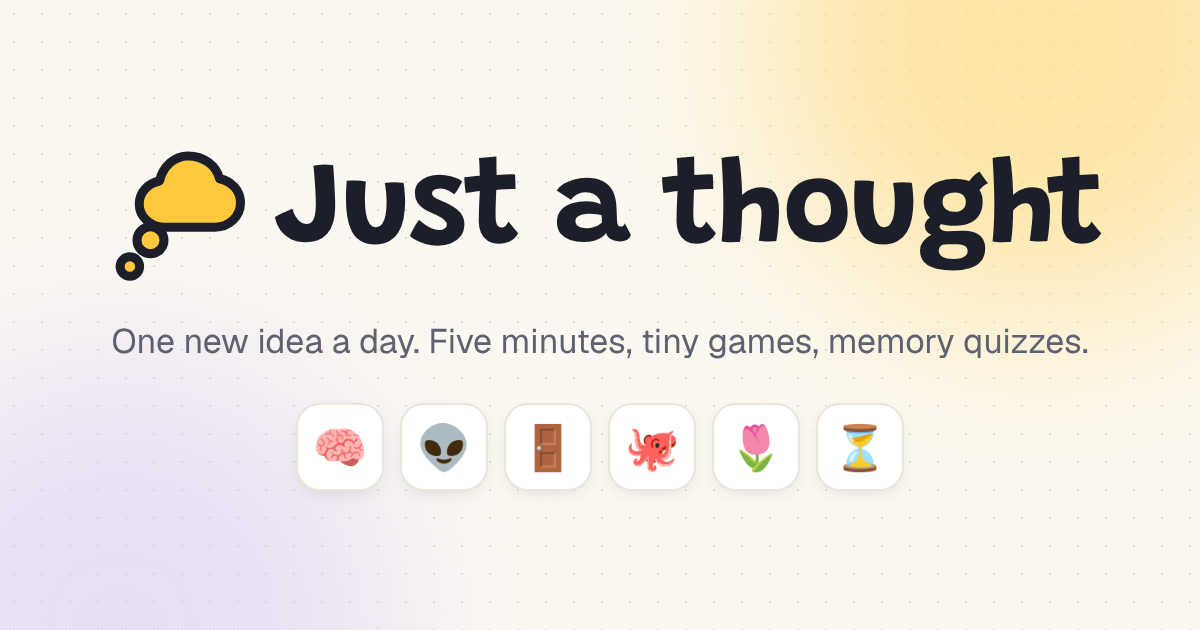
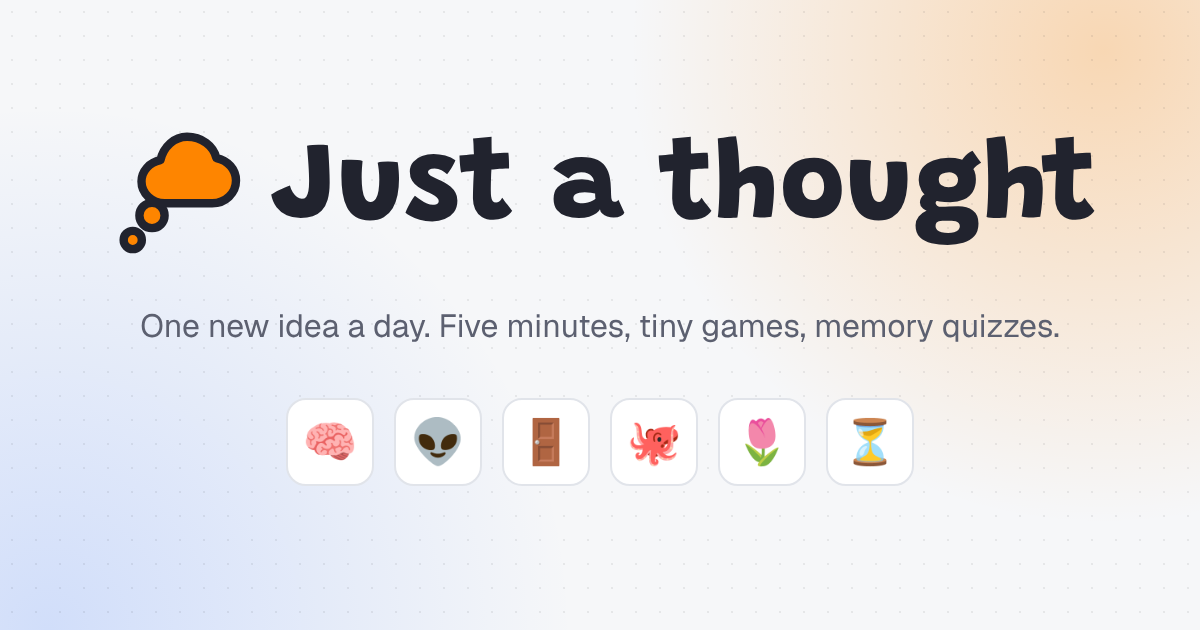
New palette: charcoal, royal blue, tangerine accent
Light and dark themes, logo, icons, share images and emails.

Claude-Session: https://claude.ai/code/session_017sHE44ootYx3rGxQHmYWuA

diff --git a/src/app/globals.css b/src/app/globals.css
@@ -39,51 +39,52 @@
 :root {
   color-scheme: light;
   --radius: 0.875rem;
-  --background: oklch(0.985 0.008 85);
-  --foreground: oklch(0.22 0.02 265);
-  --card: oklch(1 0 0);
-  --card-foreground: oklch(0.22 0.02 265);
-  --popover: oklch(1 0 0);
-  --popover-foreground: oklch(0.22 0.02 265);
-  --primary: oklch(0.22 0.02 265);
-  --primary-foreground: oklch(0.985 0.008 85);
-  --secondary: oklch(0.955 0.012 85);
-  --secondary-foreground: oklch(0.22 0.02 265);
-  --muted: oklch(0.955 0.012 85);
-  --muted-foreground: oklch(0.5 0.02 265);
-  --accent: oklch(0.94 0.015 85);
-  --accent-foreground: oklch(0.22 0.02 265);
+  /* Brand: charcoal #21232E, royal blue #105BFF, tangerine #FE8500 as the accent. */
+  --background: #f6f7f9;
+  --foreground: #21232e;
+  --card: #ffffff;
+  --card-foreground: #21232e;
+  --popover: #ffffff;
+  --popover-foreground: #21232e;
+  --primary: #105bff;
+  --primary-foreground: #ffffff;
+  --secondary: #eceef3;
+  --secondary-foreground: #21232e;
+  --muted: #eceef3;
+  --muted-foreground: #5c6070;
+  --accent: #e7eefe;
+  --accent-foreground: #21232e;
   --destructive: oklch(0.6 0.21 25);
   --success: oklch(0.64 0.16 152);
-  --border: oklch(0.9 0.012 85);
-  --input: oklch(0.88 0.012 85);
-  --ring: oklch(0.6 0.03 265);
-  /* The one call-to-action color: white text on it must stay readable. */
-  --cta: #c8412a;
-  --cta-foreground: #ffffff;
+  --border: #e1e4ea;
+  --input: #d7dbe3;
+  --ring: #105bff;
+  /* The one call-to-action color. White fails contrast on tangerine, so the text is charcoal. */
+  --cta: #fe8500;
+  --cta-foreground: #21232e;
 }
 
 .dark {
   color-scheme: dark;
-  --background: oklch(0.17 0.015 265);
-  --foreground: oklch(0.96 0.008 85);
-  --card: oklch(0.21 0.015 265);
-  --card-foreground: oklch(0.96 0.008 85);
-  --popover: oklch(0.21 0.015 265);
-  --popover-foreground: oklch(0.96 0.008 85);
-  --primary: oklch(0.96 0.008 85);
-  --primary-foreground: oklch(0.17 0.015 265);
-  --secondary: oklch(0.26 0.015 265);
-  --secondary-foreground: oklch(0.96 0.008 85);
-  --muted: oklch(0.26 0.015 265);
-  --muted-foreground: oklch(0.7 0.02 265);
-  --accent: oklch(0.28 0.015 265);
-  --accent-foreground: oklch(0.96 0.008 85);
+  --background: #21232e;
+  --foreground: #f3f4f7;
+  --card: #2a2d3a;
+  --card-foreground: #f3f4f7;
+  --popover: #2a2d3a;
+  --popover-foreground: #f3f4f7;
+  --primary: #105bff;
+  --primary-foreground: #ffffff;
+  --secondary: #343746;
+  --secondary-foreground: #f3f4f7;
+  --muted: #343746;
+  --muted-foreground: #a4a8b8;
+  --accent: #343746;
+  --accent-foreground: #f3f4f7;
   --destructive: oklch(0.7 0.19 22);
   --success: oklch(0.72 0.16 152);
-  --border: oklch(1 0 0 / 10%);
-  --input: oklch(1 0 0 / 15%);
-  --ring: oklch(0.85 0.02 265);
+  --border: rgb(255 255 255 / 10%);
+  --input: rgb(255 255 255 / 15%);
+  --ring: #5b8cff;
 }
 
 @layer base {

diff --git a/src/lib/email.ts b/src/lib/email.ts
@@ -65,11 +65,11 @@ export async function sendReminder(email: string, title: string, emoji: string, 
 }
 
 // Brand colors from globals.css, as hex since email clients don't support oklch.
-const ink = "#161b24"
-const cream = "#fdfaf4"
-const muted = "#f4f0e7"
-const mutedText = "#5e636f"
-const border = "#e2ded5"
+const ink = "#21232e"
+const cream = "#f6f7f9"
+const muted = "#eceef3"
+const mutedText = "#5c6070"
+const border = "#e1e4ea"
 const font = "-apple-system,BlinkMacSystemFont,'Segoe UI',Roboto,Helvetica,Arial,sans-serif"
 
 /** Tables and inline styles, because that's what email clients render reliably. */
@@ -135,7 +135,7 @@ function reminderHtml(title: string, emoji: string, unsubscribeUrl: string) {
     <div style="font-size:48px;line-height:1;">${emoji}</div>
     <p style="margin:20px 0 6px;font-size:13px;color:${mutedText};">Today's thought</p>
     <h1 style="margin:0 0 24px;font-size:24px;line-height:1.3;font-weight:700;">${safeTitle}</h1>
-    <a href="${siteUrl}" style="display:inline-block;background:${ink};color:#ffffff;text-decoration:none;font-size:15px;font-weight:600;padding:14px 28px;border-radius:999px;">Play now</a>
+    <a href="${siteUrl}" style="display:inline-block;background:#fe8500;color:${ink};text-decoration:none;font-size:15px;font-weight:600;padding:14px 28px;border-radius:999px;">Play now</a>
     <p style="margin:20px 0 0;font-size:13px;color:${mutedText};">Takes a few minutes.</p>
   </td></tr>
   <tr><td style="padding:20px 4px 0;font-family:${font};font-size:12px;line-height:1.5;color:${mutedText};text-align:center;">

diff --git a/src/lib/og.tsx b/src/lib/og.tsx
@@ -23,8 +23,8 @@ const gradients: Record<Category, [string, string]> = {
   curious: ["#fef08a", "#f59e0b"],
 }
 
-const ink = "#161b24"
-const muted = "#5e636f"
+const ink = "#21232e"
+const muted = "#5c6070"
 
 const fonts = Promise.all(
   ["Fraunces.ttf", "Grandstander.ttf"].map((file) => readFile(join(process.cwd(), "src/assets/fonts", file)))
@@ -33,7 +33,7 @@ const fonts = Promise.all(
 function Logo() {
   return (
     <svg width="56" height="56" viewBox="0 0 40 40">
-      <g stroke={ink} strokeWidth="2.4" strokeLinejoin="round" fill="#ffc83d">
+      <g stroke={ink} strokeWidth="2.4" strokeLinejoin="round" fill="#fe8500">
         <circle cx="8.5" cy="34" r="2.6" />
         <circle cx="14" cy="27" r="3.6" />
         <path d="M24 4.5c4.2 0 7.6 2.6 8.4 6.1 3.2.6 5.6 3.2 5.6 6.4 0 3.6-3 6.5-6.8 6.5H17.6c-3.6 0-6.6-2.8-6.6-6.2 0-3 2.3-5.5 5.4-6.1C17.3 7.3 20.4 4.5 24 4.5Z" />
@@ -49,7 +49,7 @@ export async function ogImage(thought: Thought | null) {
 
   return new ImageResponse(
     (
-      <div style={{ display: "flex", flexDirection: "column", width: "100%", height: "100%", background: "#fdfaf4", padding: 64, color: ink }}>
+      <div style={{ display: "flex", flexDirection: "column", width: "100%", height: "100%", background: "#f6f7f9", padding: 64, color: ink }}>
         <div style={{ display: "flex", flex: 1, alignItems: "center", gap: 56 }}>
           <div
             style={{

diff --git a/src/components/logo.tsx b/src/components/logo.tsx
@@ -4,12 +4,12 @@ const BUBBLE =
 // CSS loops (keyframes in globals.css), so the header logo costs no JavaScript per frame.
 const drift = "[transform-box:fill-box] [transform-origin:center]"
 
-/** A yellow thought bubble with an ink outline, whose little bubbles drift upward. */
+/** An orange thought bubble with an ink outline, whose little bubbles drift upward. */
 export function Logo({ className }: { className?: string }) {
   return (
     <svg viewBox="0 0 40 40" className={className} aria-hidden>
-      {/* Always an ink outline, also in dark mode, so the bubble stays yellow and black. */}
-      <g stroke="#161b24" strokeWidth="2.4" strokeLinejoin="round" fill="#ffc83d">
+      {/* Always an ink outline, also in dark mode, so the bubble stays orange and charcoal. */}
+      <g stroke="#21232e" strokeWidth="2.4" strokeLinejoin="round" fill="#fe8500">
         <circle cx="8.5" cy="34" r="2.6" className={`${drift} animate-[bob_2.4s_ease-in-out_infinite] [--bob:-1.5px]`} />
         <circle
           cx="14"

diff --git a/src/components/player/fact-cards.tsx b/src/components/player/fact-cards.tsx
@@ -46,7 +46,7 @@ export function FactCards({ facts, onAllFlipped }: { facts: { q: string; a: stri
           </div>
           <div
             className={cn(
-              "flex rotate-y-180 flex-col justify-center gap-1 rounded-2xl border-2 border-foreground bg-primary px-5 py-4 text-primary-foreground backface-hidden [grid-area:card]"
+              "flex rotate-y-180 flex-col justify-center gap-1 rounded-2xl border-2 border-foreground bg-foreground px-5 py-4 text-background backface-hidden [grid-area:card]"
             )}
           >
             <span className="text-xs font-semibold opacity-70">{fact.q}</span>
